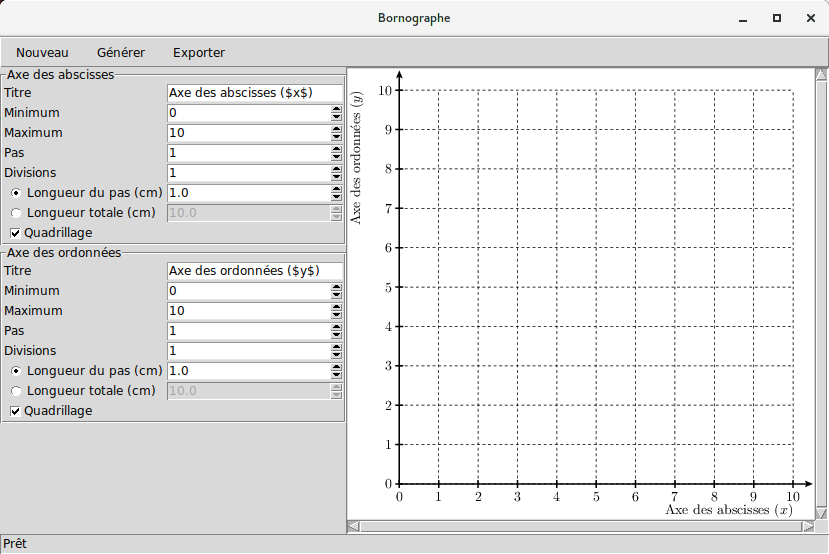
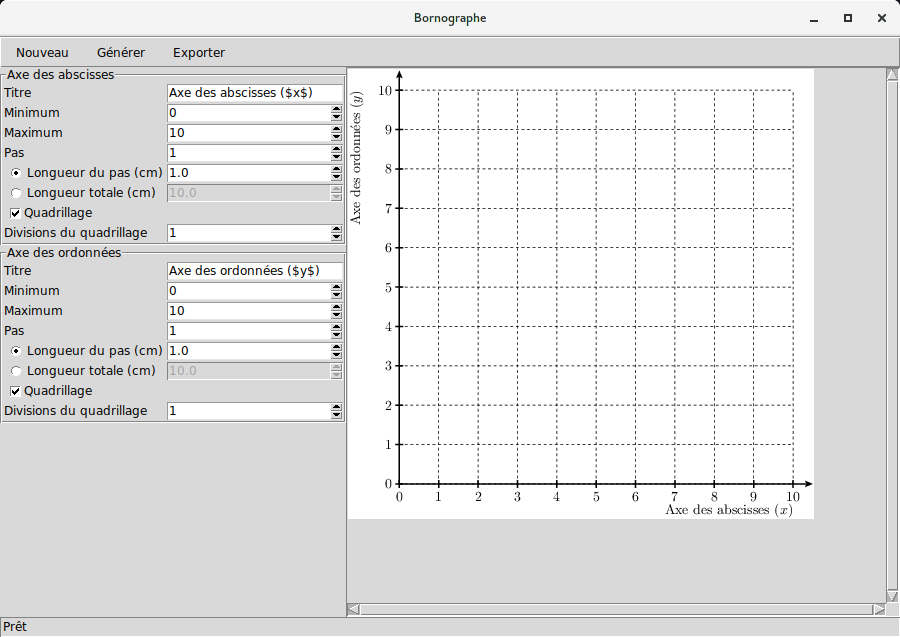
Mise à jour du fichier README

diff --git a/README.md b/README.md
@@ -10,23 +10,24 @@ La version actuelle est considérée comme un prototype.
 Dépendances
 -----------
 
-* Python 3 (CPython recommandé)
+* Python 3
 * [PyX](https://pypi.python.org/pypi/PyX) pour Python 3
 * [PIL](https://pypi.python.org/pypi/PIL) pour Python 3
+* [cx_freeze](http://cx-freeze.sourceforge.net/) (pour la compilation)
 
-Installation et exécution
--------------------------
+Compilation
+-----------
 
-L’installation se fait simplement en plaçant les fichiers .py dans un répertoire quelconque.
+La compilation est effectuée avec cx_freeze. La commande
 
-Pour lancer le logiciel, exécuter bornographe.py:
+    python3 setup.py build
 
-    chmod +x bornographe.py
-    ./bornographe.py
+doit être exécutée dans le répertoire racine des fichiers sources.
 
-ou
+Installation
+------------
 
-    python3 bornographe.py
+Après avoir compilé le logiciel ou récupéré sa version compilée, lancer simplement l’exécutable *bornographe*.
 
 Utilisation
 -----------
@@ -43,10 +44,10 @@ La configuration de l’axe des abscisses et de l’axe des ordonnées est ident
 * **Minimum :** la borne inférieure de l’axe.
 * **Maximum :** la borne supérieure de l’axe.
 * **Pas :** le nombre d’unités entre chaque graduations.
-* **Divisions :** le nombre de divisions du quadrillage entrre chaque graduation.
 * **Longueur du pas :** longueur en centimètred entre chaque graduation.
 * **Longueur totale :** longueur en centimètres entre la borne inférieure et la borne supérieure.
 * **Quadrillage :** affiche ou non le quadrillage de l’axe.
+* **Divisions du quadrillage :** le nombre de divisions du quadrillage entre chaque graduation.
 
 Le nombre de divisions n’est accessible que si on active le quadrillage.
 
